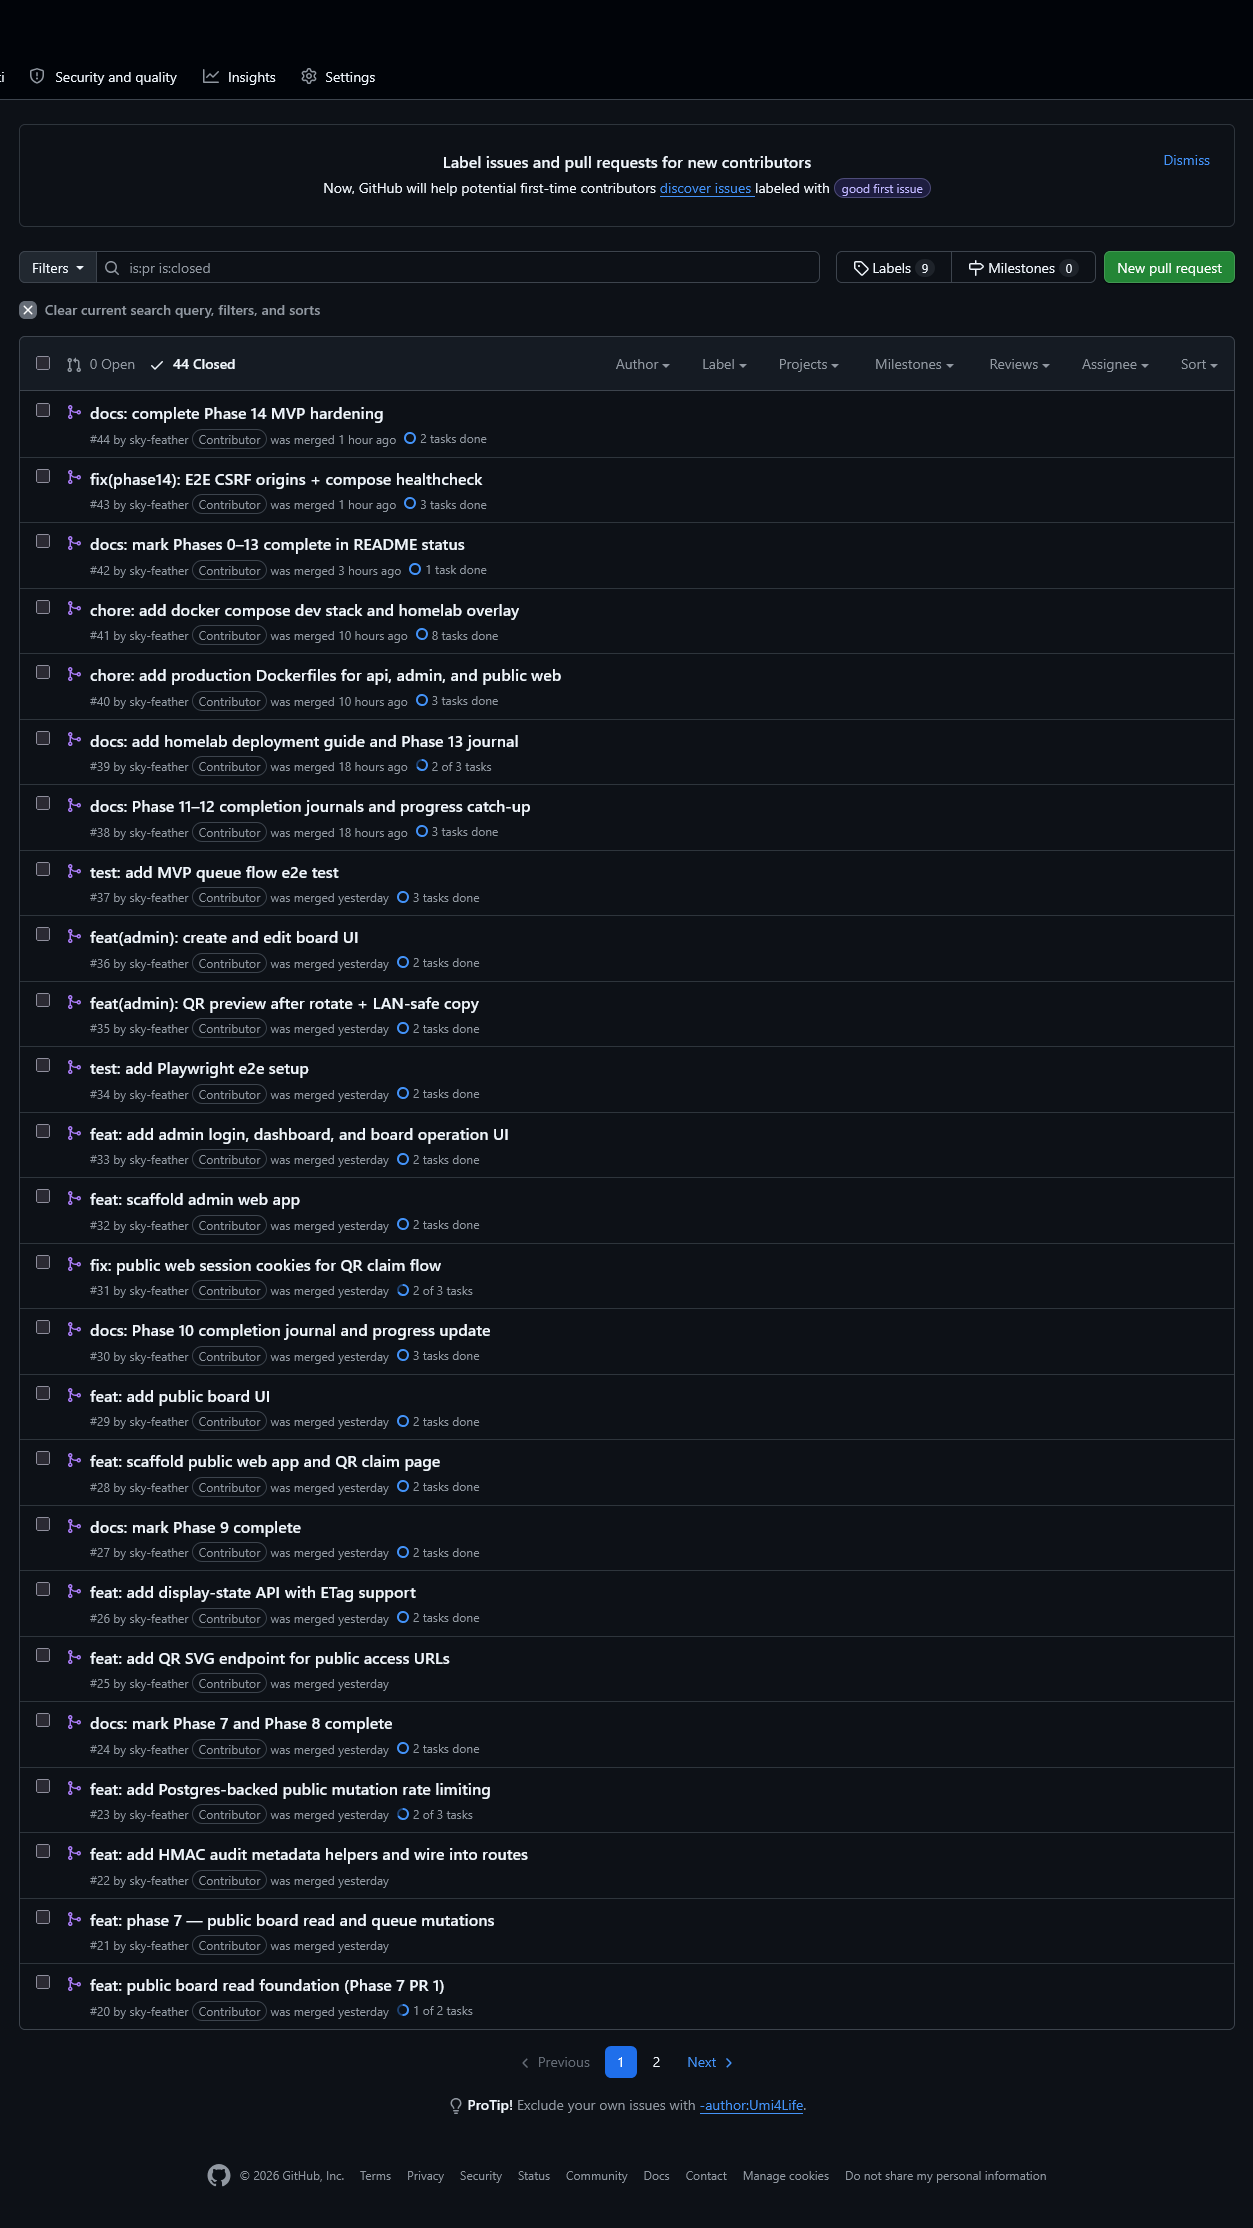
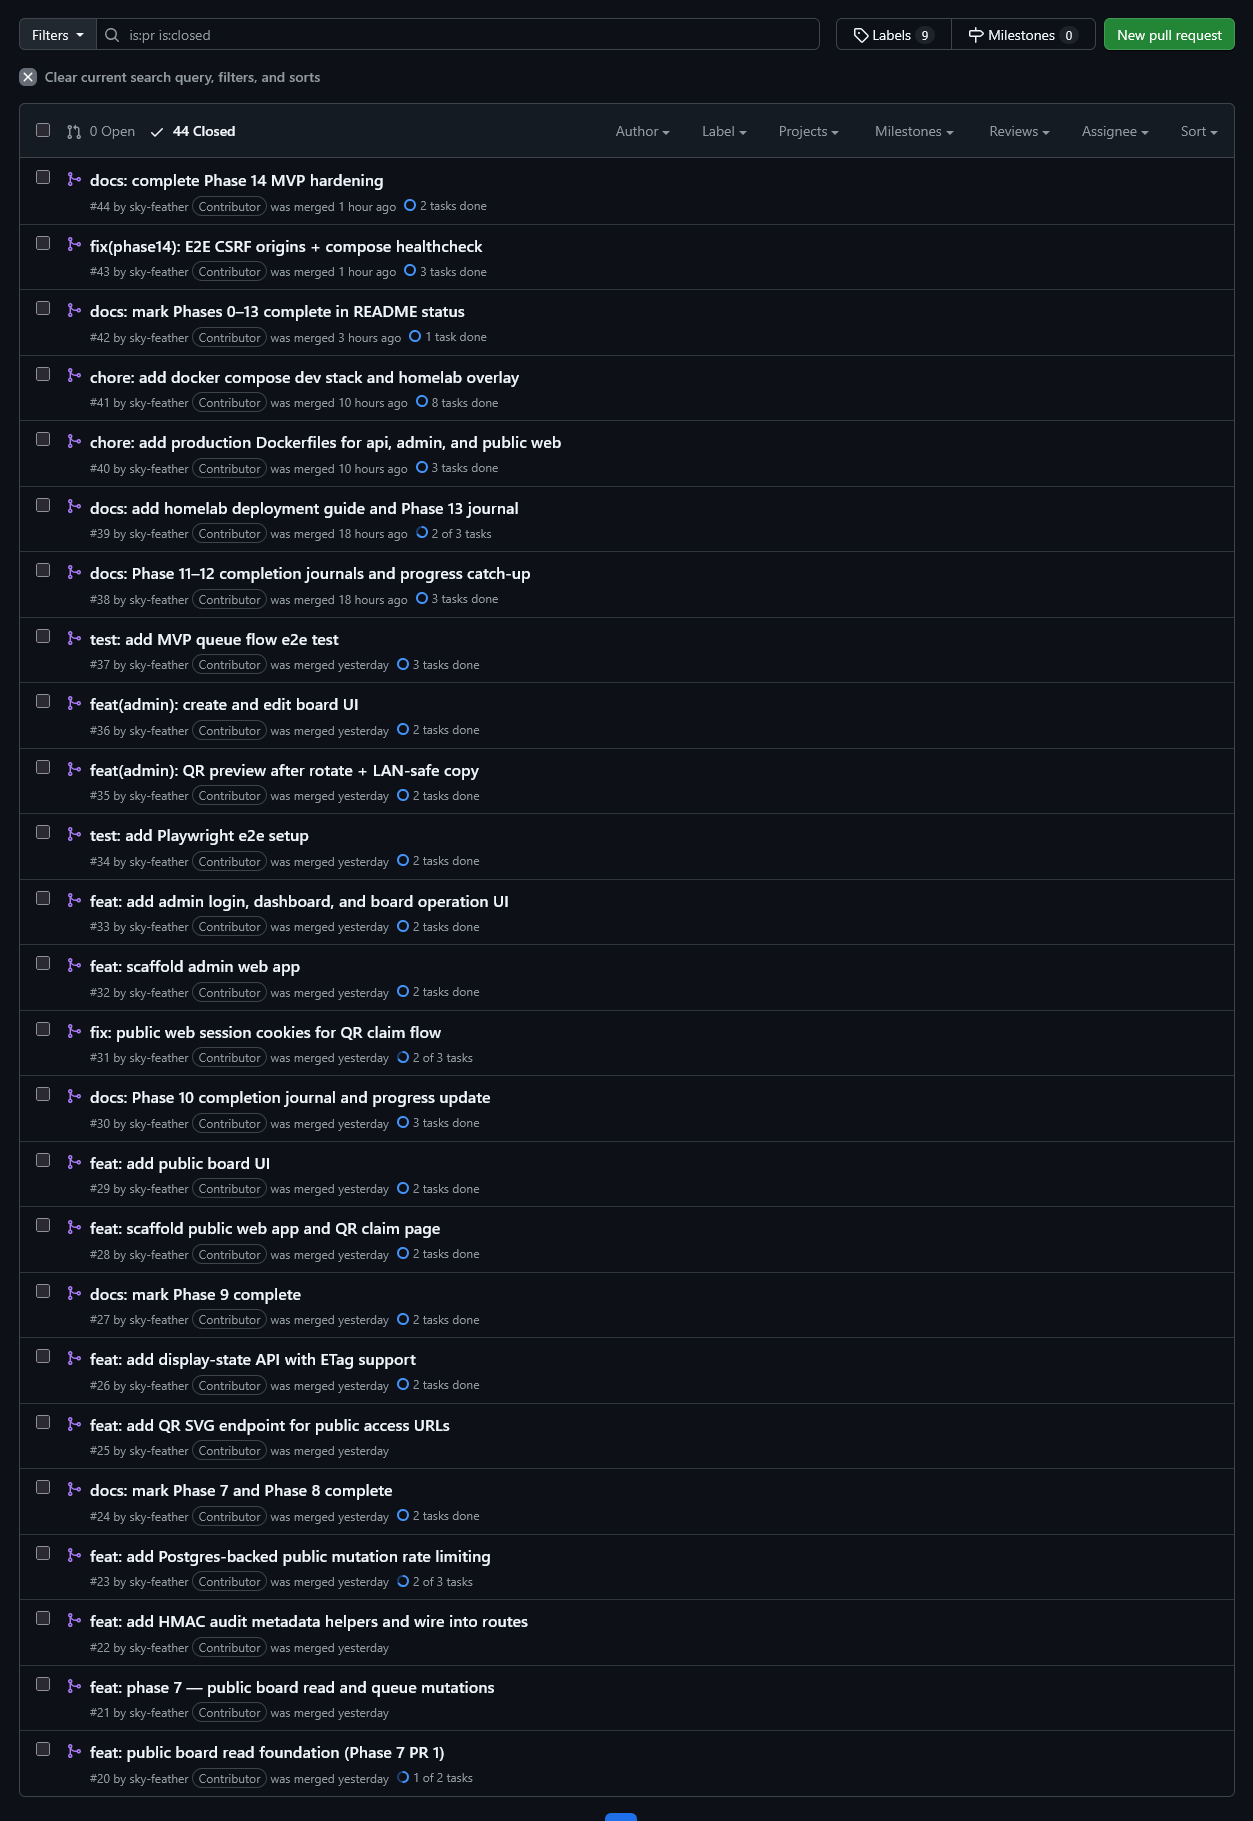
fix images

diff --git a/content/posts/queue-reminiscence-agent-worker-rails/index.md b/content/posts/queue-reminiscence-agent-worker-rails/index.md
@@ -222,10 +222,10 @@ The matching PR summary shows the implementation note and verification block: Cu
 
 And the PR trail is visible. The closed pull request page shows 44 closed PRs, with the visible page running from Phase 14 closure back through Phase 7/9 work. Most of them are authored by `sky-feather`: docs, features, fixes, Docker, E2E, admin UI, public UI, QR, display-state, rate limiting, and audit metadata.
 
-{{< side-by-side 
-  src1="evidence/github-closed-pr-list.png" width="360"
+{{< side-by-side width="360"
+  src1="evidence/github-closed-pr-list.png" 
   alt1="GitHub closed pull request list showing the Queue Reminiscence PR train, including PR #44 through #20, mostly authored by sky-feather."
-  src2="evidence/github-pr-25-detail.png" height="500"
+  src2="evidence/github-pr-25-detail.png"
   alt2="GitHub PR #25 detail page showing the merged QR SVG endpoint PR, summary, verification, and merge activity."
 >}}
 
